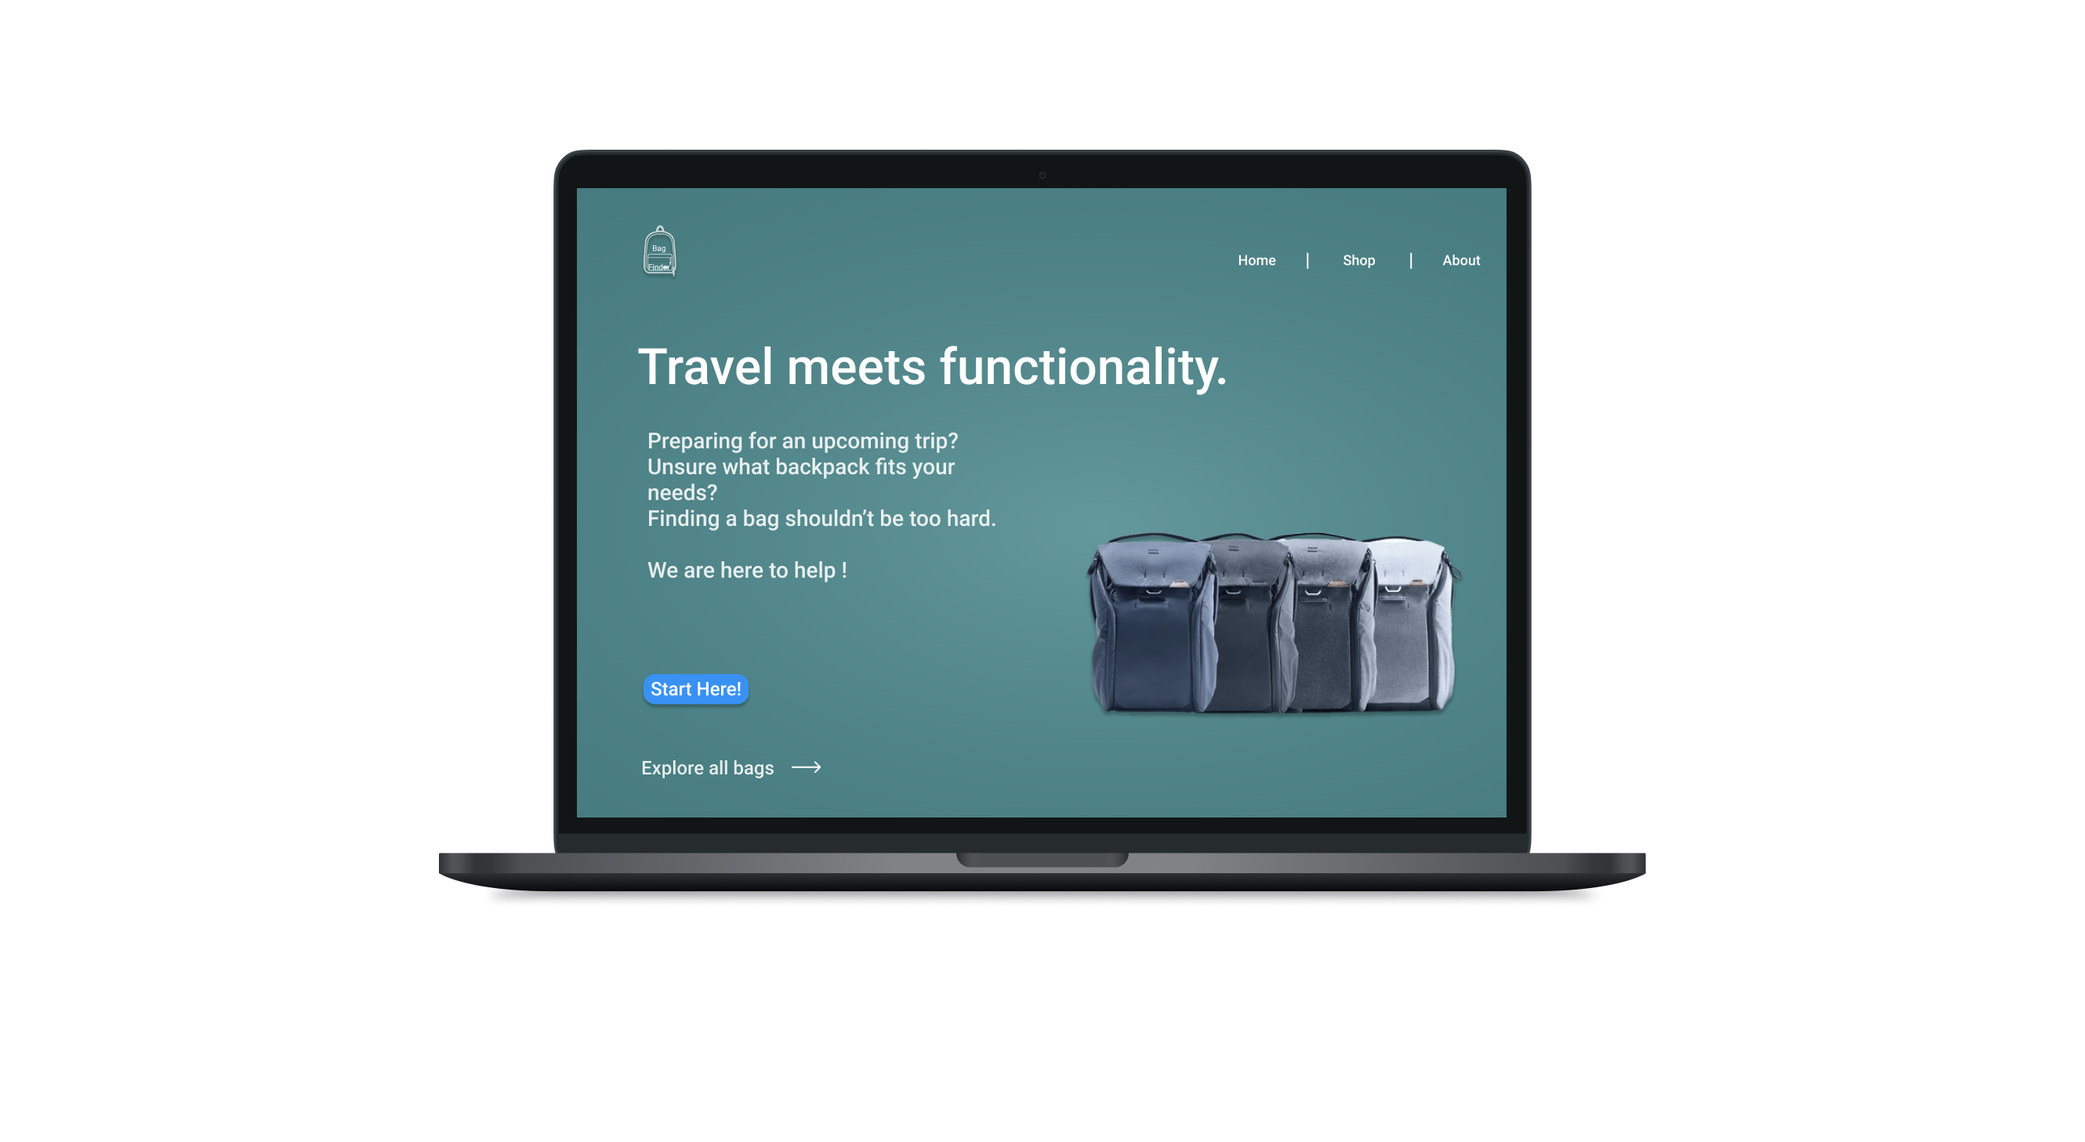
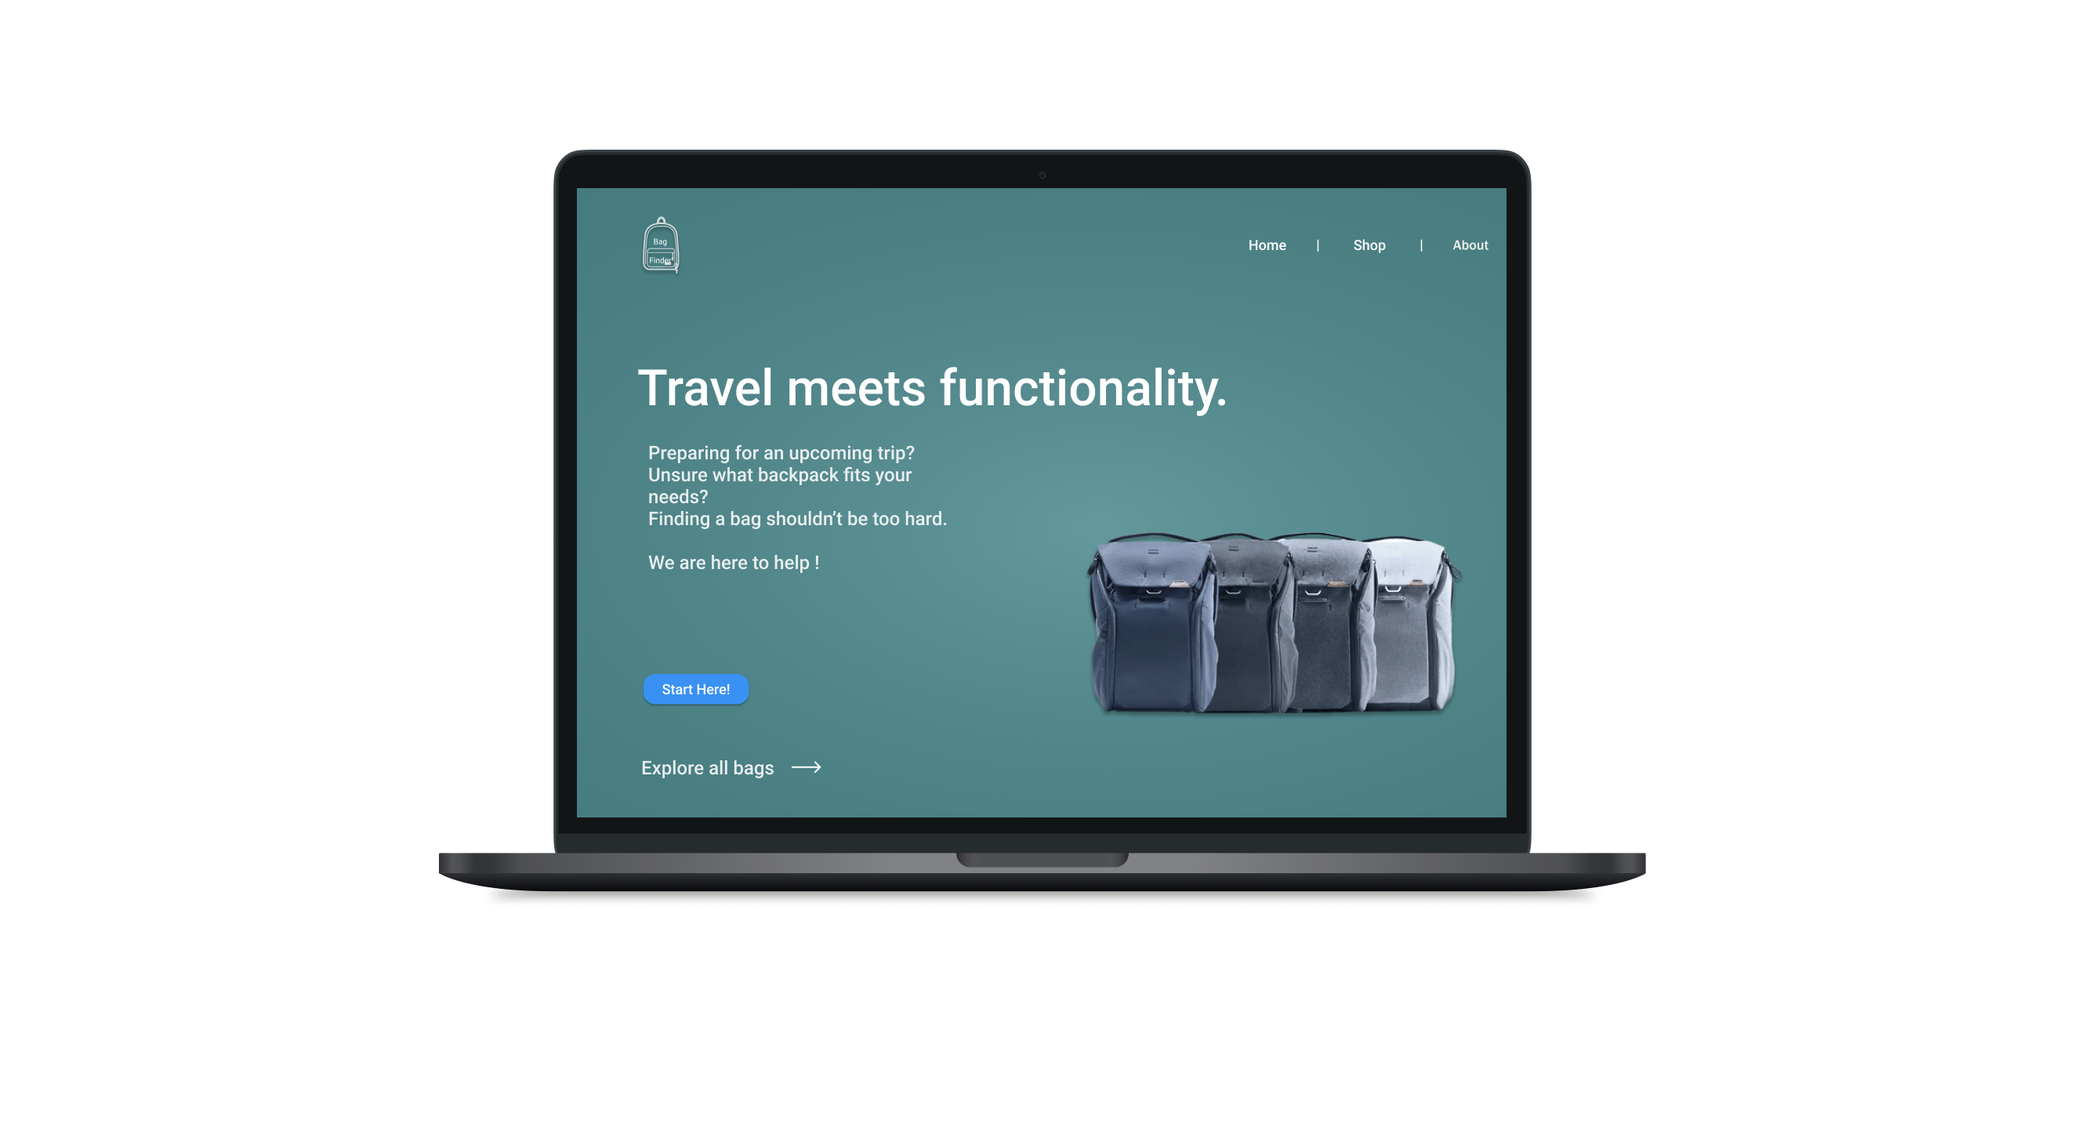
Updates

diff --git a/static/css/main.6befa3e6.chunk.css b/static/css/main.6befa3e6.chunk.css
@@ -1,0 +1,2 @@
+body{margin:0;font-family:-apple-system,BlinkMacSystemFont,"Segoe UI","Roboto","Oxygen","Ubuntu","Cantarell","Fira Sans","Droid Sans","Helvetica Neue",sans-serif;-webkit-font-smoothing:antialiased;-moz-osx-font-smoothing:grayscale}code{font-family:source-code-pro,Menlo,Monaco,Consolas,"Courier New",monospace}:root{--primary:#fff}.btn{padding:8px 20px;border-radius:2px;outline:none;border:none;cursor:pointer}.btn--primary{background-color:#fff;background-color:var(--primary);color:#242424}.btn--outline,.btn--primary{border:1px solid #fff;border:1px solid var(--primary)}.btn--outline{background-color:transparent;color:#fff;padding:8px 20px;transition:all .3s ease-out}.btn--medium{padding:8px 20px;font-size:18px}.btn--large{padding:12px 26px;font-size:20px}.btn--large:hover,.btn--medium:hover{transition:all .3s ease-out;background:#fff;color:#242424;transition:.25s}.navbar{align-items:center;height:150px;box-sizing:border-box;width:100%;position:relative;margin:auto auto 9%}.navbar,.navbar-container{border-radius:0 0 45px 45px}.navbar-container{display:flex;height:100%}.site-title{font-family:"Circular Std bold";font-size:32px;font-weight:700;text-align:bottom;color:#353535;color:#424242}.navbar-logo,.site-title{margin-top:auto;margin-bottom:auto}.navbar-logo{display:flex;position:relative;cursor:pointer;text-decoration:none;font-size:2rem;width:100%}.side-tag-container{margin-top:auto;margin-bottom:auto}side-tag{font-weight:100;font-style:normal;font-size:12px;line-height:2em;letter-spacing:.03em;text-transform:none;color:#aaa;padding-left:8px;text-align:left;font-family:"Poppins"}.fa-typo3{margin-left:.1rem;font-size:1.8 rem;margin-top:50px}.nav-menu{display:grid;grid-template-columns:repeat(2,auto);grid-gap:10px;list-style:none;text-align:center;width:100%;justify-content:end;align-content:center;position:relative;height:75%;margin-top:auto;margin-bottom:auto;object-position:center}.nav-item{height:100%;padding:0 auto 0 25px}li{padding-bottom:0}.nav-links{font-family:"Circular Std Bold";color:#424242;display:flex;align-items:right;text-decoration:none;font-size:16px}.nav-links:hover{border-bottom:solid #fff;transition:all .2s ease-out}.fa-bars{color:#fff}.menu-icon,.nav-links-mobile{display:none}@media screen and (max-width:767px){.navbar-container{padding:10px}.site-title{font-size:22px}.side-tag-container{margin-top:auto;margin-bottom:auto;display:flex}side-tag{font-size:10px;bottom:0}.nav-links{font-size:14px}}@media screen and (min-width:768px)and (max-width:1023px){.navbar{align-items:center;height:150px;box-sizing:border-box;border-radius:0 0 45px 45px;width:100%;position:relative;margin:auto auto 9%}.site-title{font-family:"Circular Std bold";font-size:32px;font-weight:700;text-align:bottom;color:#353535;color:#424242}.side-tag-container,.site-title{margin-top:auto;margin-bottom:auto}side-tag{font-weight:100;font-style:normal;font-size:12px;line-height:2em;letter-spacing:.03em;text-transform:none;color:#aaa;padding-left:8px;text-align:center;font-family:"Poppins"}.nav-menu.active{background:#fff;left:0;opacity:1;transition:all .5s ease;z-index:1}.nav-links:hover{background-color:#fff;color:#242424;border-radius:0}.navbar-logo{position:relative;top:0;left:0}.menu-icon{display:block;position:absolute;top:0;right:0;font-size:1.8rem;cursor:pointer}.fa-times{color:#fff;font-size:2rem}.nav-links-mobile{display:block;text-align:center;margin:2rem auto;border-radius:4px;width:80%;text-decoration:none;font-size:1.5rem;background-color:transparent;color:#fff;padding:14px 20px;border:1px solid #fff;transition:all .3s ease-out}.nav-links-mobile:hover{background:#fff;color:#242424;transition:.25s}}.App{text-align:center}.App-logo{height:40vmin;pointer-events:none}@media (prefers-reduced-motion:no-preference){.App-logo{animation:App-logo-spin 20s linear infinite}}.App-header{background-color:#fff;min-height:100vh;display:flex;flex-direction:column;align-items:center;justify-content:center;font-size:calc(10px + 2vmin);color:#000}.App-link{color:#61dafb}@keyframes App-logo-spin{0%{transform:rotate(0deg)}to{transform:rotate(1turn)}}p{font-size:200px}h1{color:#555;font-size:20px;padding-left:20px}.container .btn{position:absolute;top:50%;left:50%;transform:translate(-50%,-50%);-ms-transform:translate(-50%,-50%);background-color:transparent;color:#fff;font-size:75px;padding:12px 24px;border:none;cursor:pointer;border-radius:5px}.container .btn:hover{color:#e2e276}.home-tag{align-self:flex-start;border-radius:15px;padding:10px 18px 7px;background:#e7ddfd;font-size:14px;font-weight:600;color:#5a03b9;margin-left:0;margin-top:20px;font-family:"Circular Std Bold";display:inline}.home-tag.blue{background:#dbf0ff;color:#0084e8}.home-intro{padding-top:0;margin-top:0;text-align:left;margin-bottom:100px;padding-left:0}.home-intro p{padding-left:0;padding-bottom:0;padding-top:5px}@media screen and (max-width:767px){.home-tag.blue{background:#dbf0ff;color:#0084e8}.home-tag{align-self:flex-start;border-radius:15px;padding:10px 18px 7px;background:#e7ddfd;font-size:12px;font-weight:600;color:#5a03b9;margin-left:0;margin-top:20px;font-family:"Circular Std Bold";display:inline}}.card{border-radius:28px;width:100%;height:500px;box-sizing:border-box;overflow:hidden;position:relative;display:block;flex:1 1;margin:60px auto 10px;box-shadow:0 12px 12px 1px rgb(209 230 255/57%)}.image-container-backpack{background-color:#9cc1c2}.image-container-backpack,.image-container-OD{display:flex;height:100%;width:60%;flex:1 1;float:left;align-items:center;position:absolute;left:0;overflow:hidden;object-fit:cover;overflow:visible;bottom:0}.image-container-OD{background-color:#ffcdb4}.thumbnail{height:100%;width:100%;object-fit:cover;display:block;margin-left:auto;margin-right:auto;margin-top:auto;bottom:0}.image-detail-container{display:flex;justify-content:center;align-items:center;background-color:#fff;width:40%;height:100%;flex:1 1;float:right;right:0;padding-bottom:0;position:absolute;transition:.2s ease;overflow:hidden;bottom:0}.title{text-align:center;justify-content:center}.card-title{color:#535353;font-size:20px;font-weight:100;letter-spacing:2px;text-align:center;text-transform:uppercase;font-family:"Circular Std Bold";letter-spacing:.5px;margin-bottom:15px}.title h1{padding-left:0}.card-subtitle{color:#aaa;font-size:14px;margin-bottom:16px;opacity:1;text-align:center;line-height:1.5%}card-span{color:#666;font-weight:200;text-transform:none;font-size:16px;line-height:20px;text-align:center}@media screen and (max-width:767px){.image-container-backpack{display:flex;height:100%;width:60%;flex:1 1;float:left;align-items:center;position:absolute;left:0;overflow:hidden;object-fit:cover;overflow:visible;bottom:0}.thumbnail{height:100%;max-width:400px;display:flex}img{width:10px}.card-title{color:#535353;font-size:18px;font-weight:100;letter-spacing:2px;text-align:center;text-transform:uppercase;font-family:"Circular Std Bold";letter-spacing:.5px;margin-bottom:15px}.card-subtitle{color:#aaa;font-size:1px;margin-bottom:16px;opacity:1;text-align:center;line-height:1.5%}card-span{color:#666;font-weight:200;text-transform:none;font-size:14px;line-height:20px;text-align:center}}.footer{left:0;bottom:0;width:auto;text-align:center;clear:both;position:relative;border-top:.5px solid #ddd;background-color:transparent;margin-top:10%}.social-link{width:50px;height:50px;object-position:center;margin-left:auto;margin-right:auto}.footer img{padding-bottom:auto}.footer p{font-size:10px;text-align:center;padding-bottom:0;height:50%;padding-top:0;margin-top:0}.footer-section{align-items:center;padding-left:auto;padding-right:auto}.intro{width:50%;text-align:left;position:absolute;margin-left:auto;margin-right:auto}.intro h1{padding-left:0;font-size:48px;font-family:"Poppins"}.intro p{font-size:18px;padding-left:0}@media screen and (max-width:767px){.intro{margin-right:auto;margin-left:auto;vertical-align:middle;position:absolute;left:0;right:0}.intro h1{font-size:24px}.intro p{font-size:16px}}.page-container{width:100%;float:none;margin-left:auto;margin-right:auto;max-width:1124px}.layout,.page-contents{display:flex;flex-direction:column;width:100%;min-height:100vh;margin:0 auto}.OD{background-color:#f3f7fc}.photo-container{width:100%;border-radius:32px;text-align:left;flex-direction:column;height:auto;align-items:flex-start;-webkit-box-align:center;background-color:#fff;padding:20px 40px;margin-bottom:50px;box-shadow:0 2px 24px 1px rgb(209 230 255/57%)}.banner{width:100%;height:900px;box-sizing:border-box;position:flex;display:block;float:center;flex:1 1;align-items:center;margin-top:10px;margin-bottom:10px}video{width:100%;height:auto;justify-content:center;object-fit:cover}.banner-container{box-sizing:border-box;display:block;height:100%;width:100%;flex:1 1;position:relative;overflow:hidden}.group-left{width:50%;float:left;text-align:left;display:flex;flex-direction:column;align-items:center}.group-left p{font-size:18px;font-weight:200;line-height:28px;margin-bottom:48px}.group-right{width:50%;text-align:left;display:flex;flex-direction:column;float:right;align-items:center}.group-right p{font-size:14px;font-weight:200;margin-bottom:32px}.process-pic{display:block;width:100%;margin-bottom:5px}.first-word{text-decoration:underline}.fade-in-section{opacity:0;transform:translateY(20vh);visibility:hidden;transition:opacity 1.2s ease-out,transform .6s ease-out,visibility 1.2s ease-out;will-change:opacity,transform,visibility}.fade-in-section.is-visible{opacity:1;transform:none;visibility:visible}.backpack1{background-color:rgba(218,242,247,.705);background-color:#ebf4fc;background-color:#e9f3f7;background-color:#fff}.container{background-color:#fff;margin-left:auto;margin-right:auto;padding:20px 8px;box-shadow:0 2px 12px 1px rgb(209 230 255/30%)}.container,.sub-container{width:100%;border-radius:32px;text-align:left;flex-direction:column;height:auto;align-items:flex-start;-webkit-box-align:center;margin-bottom:50px}.sub-container{padding:20px 0;box-shadow:0 1px 6px 1px rgb(209 230 255/40%)}.table-container{box-sizing:border-box;display:flex;flex-direction:row;margin:auto;padding-left:10px;padding-right:10px;text-align:left}.grid,.table-container{width:100%;align-items:center}.grid{text-align:center}.grid img{object-fit:cover;width:900px;height:100%;margin-bottom:10px}.row{object-fit:contain;margin-bottom:20px;width:100%;flex-direction:row;grid-column-gap:40px;padding-left:0}.col,.row{display:flex}.col{width:330px;height:430px;margin-left:auto;margin-right:auto;object-fit:fill}.col img{border:1px solid #000}.container img{height:auto}.container text{color:#555;font-size:18px;letter-spacing:.38px;line-height:22px;text-align:center;font-family:"Circular Std Bold";margin-bottom:10px;line-height:40px}.wireframe{width:90%;height:auto;margin-top:20px}.user-persona{height:100%;width:100%;display:block;margin-bottom:15px;box-sizing:border-box;border:1px solid #000;border-radius:20px}.flow-img{width:100%;margin-bottom:15px;padding-top:10px}.flow-img,img{height:100%;object-fit:cover;display:block;align-items:center;justify-content:center;margin-right:auto}img{width:75%;margin-left:auto;margin-bottom:5px}item-caption{font-size:18px;text-align:center}.item img{object-fit:cover;width:90%}.single-photo{width:444.5px;height:316.66px;align-items:center}.highlight-text.shown{background-image:linear-gradient(90deg,transparent 50%,rgba(250,187,84,.3764705882352941) 0);padding:2px 0}.highlight-text.shown,.highlight.shown{position:relative;background-origin:0;background-size:200% 100%;background-repeat:repeat-x;background-position:-100% 100%;transition:background-position .8s ease-out}.highlight.shown{padding:4px 0}.tag{align-self:flex-start;border-radius:15px;padding:10px 18px 7px;background:#e7ddfd;font-size:12px;font-weight:700;text-transform:uppercase;color:#5a03b9;font-family:"Circular Std Bold"}.tag.blue{background:#dbf0ff;color:#0084e8}h2{text-align:center}h2,h3{color:#555;font-size:24px;letter-spacing:2px;text-transform:uppercase;font-family:"Circular Std Bold";margin:50px 0 25px}h3{text-align:left;padding-left:15px}h4{margin-bottom:16px;font-family:"Circular Std Bold";font-size:20px;color:#555;letter-spacing:.8px}span{margin-top:500px;padding-top:50px;display:inline}p{padding-top:15px;padding-bottom:15px;font-size:16px;letter-spacing:1px;line-height:40px}li,p{color:#3b3b3b;padding-left:20px;font-family:"Poppins";text-align:left}li{font-size:14px;letter-spacing:1.5%;line-height:25px;padding-bottom:10px;letter-spacing:1px;padding-top:20px;height:auto}.title{color:#535353;font-size:16px;font-weight:100;letter-spacing:2px;text-align:left;text-transform:uppercase;font-family:"Circular Std Bold";padding-top:10px;padding-left:20px;padding-bottom:15px;letter-spacing:.5px}@font-face{font-family:"Circular Std Bold";src:local(Circular Std Bold),url(/static/media/Circular-Std-Bold.71e47131.ttf) format("truetype")}@font-face{font-family:"Circular Std";src:local(Circular Std),url(/static/media/Circular-Std.0cea81af.otf) format("truetype")}@font-face{font-family:"Poppins";src:local(Poppins),url(/static/media/Poppins.8081832f.ttf) format("truetype")}.side-bar{position:fixed;z-index:100;left:20px;top:50%;transform:translateY(0);width:80px;display:flex;flex-direction:column;justify-content:center;align-items:center;border-radius:22px;padding-top:20px;padding-bottom:20px;box-shadow:0 1px 0 0 rgb(209 230 255/57%);padding-left:0;background-color:#fff}.side-bar img{width:30px;height:20px;object-fit:fill}.side-bar:hover{box-shadow:0 1px 24px 1px rgb(209 230 255/57%)}
+/*# sourceMappingURL=main.6befa3e6.chunk.css.map */

diff --git a/index.html b/index.html
@@ -1,1 +1,1 @@
-<!doctype html><html lang="en"><head><meta charset="utf-8"/><meta name="viewport" content="width=device-width,initial-scale=1"/><meta name="theme-color" content="#000000"/><meta name="description" content="Web site created using create-react-app"/><script src="pathseg.js"></script><link rel="manifest" href="/manifest.json"/><title>Andy Mui</title><link href="/static/css/2.80ec4faa.chunk.css" rel="stylesheet"><link href="/static/css/main.b47492cb.chunk.css" rel="stylesheet"></head><body><noscript>You need to enable JavaScript to run this app.</noscript><div id="root"></div><script>!function(e){function r(r){for(var n,i,a=r[0],c=r[1],l=r[2],p=0,s=[];p<a.length;p++)i=a[p],Object.prototype.hasOwnProperty.call(o,i)&&o[i]&&s.push(o[i][0]),o[i]=0;for(n in c)Object.prototype.hasOwnProperty.call(c,n)&&(e[n]=c[n]);for(f&&f(r);s.length;)s.shift()();return u.push.apply(u,l||[]),t()}function t(){for(var e,r=0;r<u.length;r++){for(var t=u[r],n=!0,a=1;a<t.length;a++){var c=t[a];0!==o[c]&&(n=!1)}n&&(u.splice(r--,1),e=i(i.s=t[0]))}return e}var n={},o={1:0},u=[];function i(r){if(n[r])return n[r].exports;var t=n[r]={i:r,l:!1,exports:{}};return e[r].call(t.exports,t,t.exports,i),t.l=!0,t.exports}i.e=function(e){var r=[],t=o[e];if(0!==t)if(t)r.push(t[2]);else{var n=new Promise((function(r,n){t=o[e]=[r,n]}));r.push(t[2]=n);var u,a=document.createElement("script");a.charset="utf-8",a.timeout=120,i.nc&&a.setAttribute("nonce",i.nc),a.src=function(e){return i.p+"static/js/"+({}[e]||e)+"."+{3:"02e2ac61"}[e]+".chunk.js"}(e);var c=new Error;u=function(r){a.onerror=a.onload=null,clearTimeout(l);var t=o[e];if(0!==t){if(t){var n=r&&("load"===r.type?"missing":r.type),u=r&&r.target&&r.target.src;c.message="Loading chunk "+e+" failed.\n("+n+": "+u+")",c.name="ChunkLoadError",c.type=n,c.request=u,t[1](c)}o[e]=void 0}};var l=setTimeout((function(){u({type:"timeout",target:a})}),12e4);a.onerror=a.onload=u,document.head.appendChild(a)}return Promise.all(r)},i.m=e,i.c=n,i.d=function(e,r,t){i.o(e,r)||Object.defineProperty(e,r,{enumerable:!0,get:t})},i.r=function(e){"undefined"!=typeof Symbol&&Symbol.toStringTag&&Object.defineProperty(e,Symbol.toStringTag,{value:"Module"}),Object.defineProperty(e,"__esModule",{value:!0})},i.t=function(e,r){if(1&r&&(e=i(e)),8&r)return e;if(4&r&&"object"==typeof e&&e&&e.__esModule)return e;var t=Object.create(null);if(i.r(t),Object.defineProperty(t,"default",{enumerable:!0,value:e}),2&r&&"string"!=typeof e)for(var n in e)i.d(t,n,function(r){return e[r]}.bind(null,n));return t},i.n=function(e){var r=e&&e.__esModule?function(){return e.default}:function(){return e};return i.d(r,"a",r),r},i.o=function(e,r){return Object.prototype.hasOwnProperty.call(e,r)},i.p="/",i.oe=function(e){throw console.error(e),e};var a=this["webpackJsonpui-portfolio"]=this["webpackJsonpui-portfolio"]||[],c=a.push.bind(a);a.push=r,a=a.slice();for(var l=0;l<a.length;l++)r(a[l]);var f=c;t()}([])</script><script src="/static/js/2.be2d2f88.chunk.js"></script><script src="/static/js/main.eb32dc2e.chunk.js"></script></body></html>
+<!doctype html><html lang="en"><head><meta charset="utf-8"/><meta name="viewport" content="width=device-width,initial-scale=1"/><meta name="theme-color" content="#000000"/><meta name="description" content="Web site created using create-react-app"/><script src="pathseg.js"></script><link rel="manifest" href="/manifest.json"/><title>Andy Mui</title><link href="/static/css/2.80ec4faa.chunk.css" rel="stylesheet"><link href="/static/css/main.6befa3e6.chunk.css" rel="stylesheet"></head><body><noscript>You need to enable JavaScript to run this app.</noscript><div id="root"></div><script>!function(e){function r(r){for(var n,i,a=r[0],c=r[1],l=r[2],p=0,s=[];p<a.length;p++)i=a[p],Object.prototype.hasOwnProperty.call(o,i)&&o[i]&&s.push(o[i][0]),o[i]=0;for(n in c)Object.prototype.hasOwnProperty.call(c,n)&&(e[n]=c[n]);for(f&&f(r);s.length;)s.shift()();return u.push.apply(u,l||[]),t()}function t(){for(var e,r=0;r<u.length;r++){for(var t=u[r],n=!0,a=1;a<t.length;a++){var c=t[a];0!==o[c]&&(n=!1)}n&&(u.splice(r--,1),e=i(i.s=t[0]))}return e}var n={},o={1:0},u=[];function i(r){if(n[r])return n[r].exports;var t=n[r]={i:r,l:!1,exports:{}};return e[r].call(t.exports,t,t.exports,i),t.l=!0,t.exports}i.e=function(e){var r=[],t=o[e];if(0!==t)if(t)r.push(t[2]);else{var n=new Promise((function(r,n){t=o[e]=[r,n]}));r.push(t[2]=n);var u,a=document.createElement("script");a.charset="utf-8",a.timeout=120,i.nc&&a.setAttribute("nonce",i.nc),a.src=function(e){return i.p+"static/js/"+({}[e]||e)+"."+{3:"02e2ac61"}[e]+".chunk.js"}(e);var c=new Error;u=function(r){a.onerror=a.onload=null,clearTimeout(l);var t=o[e];if(0!==t){if(t){var n=r&&("load"===r.type?"missing":r.type),u=r&&r.target&&r.target.src;c.message="Loading chunk "+e+" failed.\n("+n+": "+u+")",c.name="ChunkLoadError",c.type=n,c.request=u,t[1](c)}o[e]=void 0}};var l=setTimeout((function(){u({type:"timeout",target:a})}),12e4);a.onerror=a.onload=u,document.head.appendChild(a)}return Promise.all(r)},i.m=e,i.c=n,i.d=function(e,r,t){i.o(e,r)||Object.defineProperty(e,r,{enumerable:!0,get:t})},i.r=function(e){"undefined"!=typeof Symbol&&Symbol.toStringTag&&Object.defineProperty(e,Symbol.toStringTag,{value:"Module"}),Object.defineProperty(e,"__esModule",{value:!0})},i.t=function(e,r){if(1&r&&(e=i(e)),8&r)return e;if(4&r&&"object"==typeof e&&e&&e.__esModule)return e;var t=Object.create(null);if(i.r(t),Object.defineProperty(t,"default",{enumerable:!0,value:e}),2&r&&"string"!=typeof e)for(var n in e)i.d(t,n,function(r){return e[r]}.bind(null,n));return t},i.n=function(e){var r=e&&e.__esModule?function(){return e.default}:function(){return e};return i.d(r,"a",r),r},i.o=function(e,r){return Object.prototype.hasOwnProperty.call(e,r)},i.p="/",i.oe=function(e){throw console.error(e),e};var a=this["webpackJsonpui-portfolio"]=this["webpackJsonpui-portfolio"]||[],c=a.push.bind(a);a.push=r,a=a.slice();for(var l=0;l<a.length;l++)r(a[l]);var f=c;t()}([])</script><script src="/static/js/2.be2d2f88.chunk.js"></script><script src="/static/js/main.eb32dc2e.chunk.js"></script></body></html>
